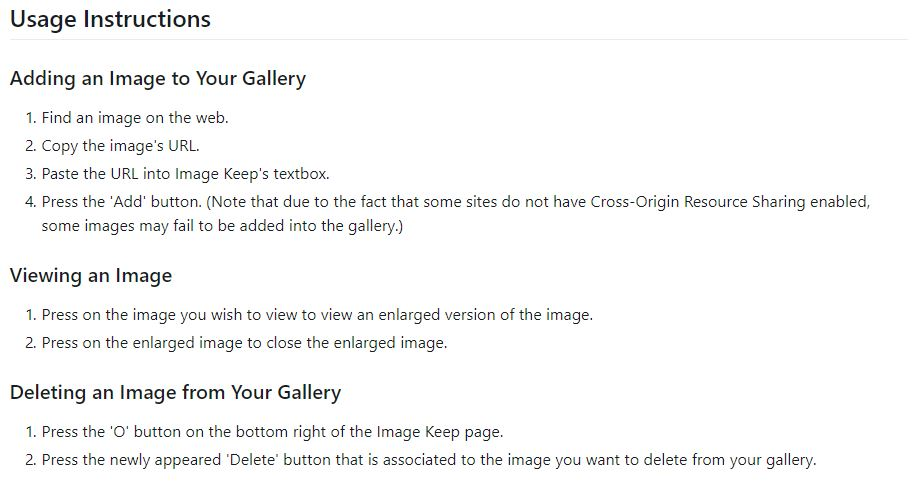
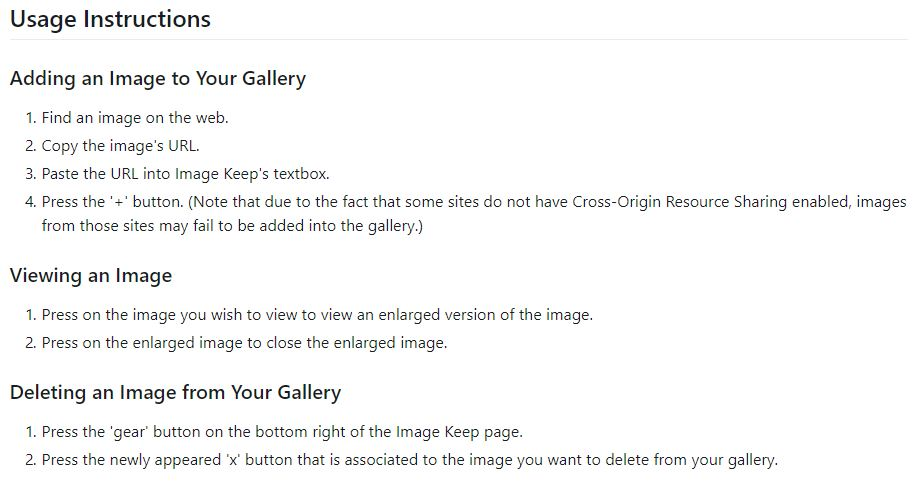
updated instructions image, fixed an English mistake, changed a word

diff --git a/index.html b/index.html
@@ -16,7 +16,7 @@
         <nav>
             <span class="logo">Image Keep</span>
             <div id="fetch-controls">
-                <input id="image-src-textbox" type="text" placeholder="Enter image an URL"><button id="fetch"><img src="./assets/images/glyphicons/glyphicons-433-plus.png"></button>
+                <input id="image-src-textbox" type="text" placeholder="Enter an image URL"><button id="fetch"><img src="./assets/images/glyphicons/glyphicons-433-plus.png"></button>
             </div>
         </nav>
     </div>
@@ -27,7 +27,7 @@
         <div id="footer-container">
             <hr>
             <footer>
-                <p>This site utilizes icons from <a target="_blank" href="http://www.glyphicons.com/">GLYPHICONS.com</a> under the <a target="_blank" rel="License" href="https://creativecommons.org/licenses/by/3.0/">Creative Commons Attribution 3.0 Unported License (CC BY 3.0)</a>.</p>
+                <p>This site uses icons from <a target="_blank" href="http://www.glyphicons.com/">GLYPHICONS.com</a> under the <a target="_blank" rel="License" href="https://creativecommons.org/licenses/by/3.0/">Creative Commons Attribution 3.0 Unported License (CC BY 3.0)</a>.</p>
             </footer>
         </div>
     </div>

diff --git a/README.md b/README.md
@@ -9,7 +9,7 @@ Currently, Image Keep uses [CORS Anywhere](https://cors-anywhere.herokuapp.com/)
 Image Keep is meant to be saved in local storage so that it can be used offline, but an online version of Image Keep [here](https://pj623.github.io/image-keep/). Please note that in my personal testing, GitHub Pages hosting (as much as I love it) causes Image Keep to encounter 403 Forbidden Errors during image retrieval from certain sites that the offline version of Image Keep does not encounter.
 
 
-Image Keep utilizes icons from [http://www.glyphicons.com/](http://www.glyphicons.com/) under the [Creative Commons Attribution 3.0 Unported License (CC BY 3.0)](https://creativecommons.org/licenses/by/3.0/).
+Image Keep utilizes icons from [GLYPHICONS.com](http://www.glyphicons.com/) under the [Creative Commons Attribution 3.0 Unported License (CC BY 3.0)](https://creativecommons.org/licenses/by/3.0/).
 
 
 ## Setup
